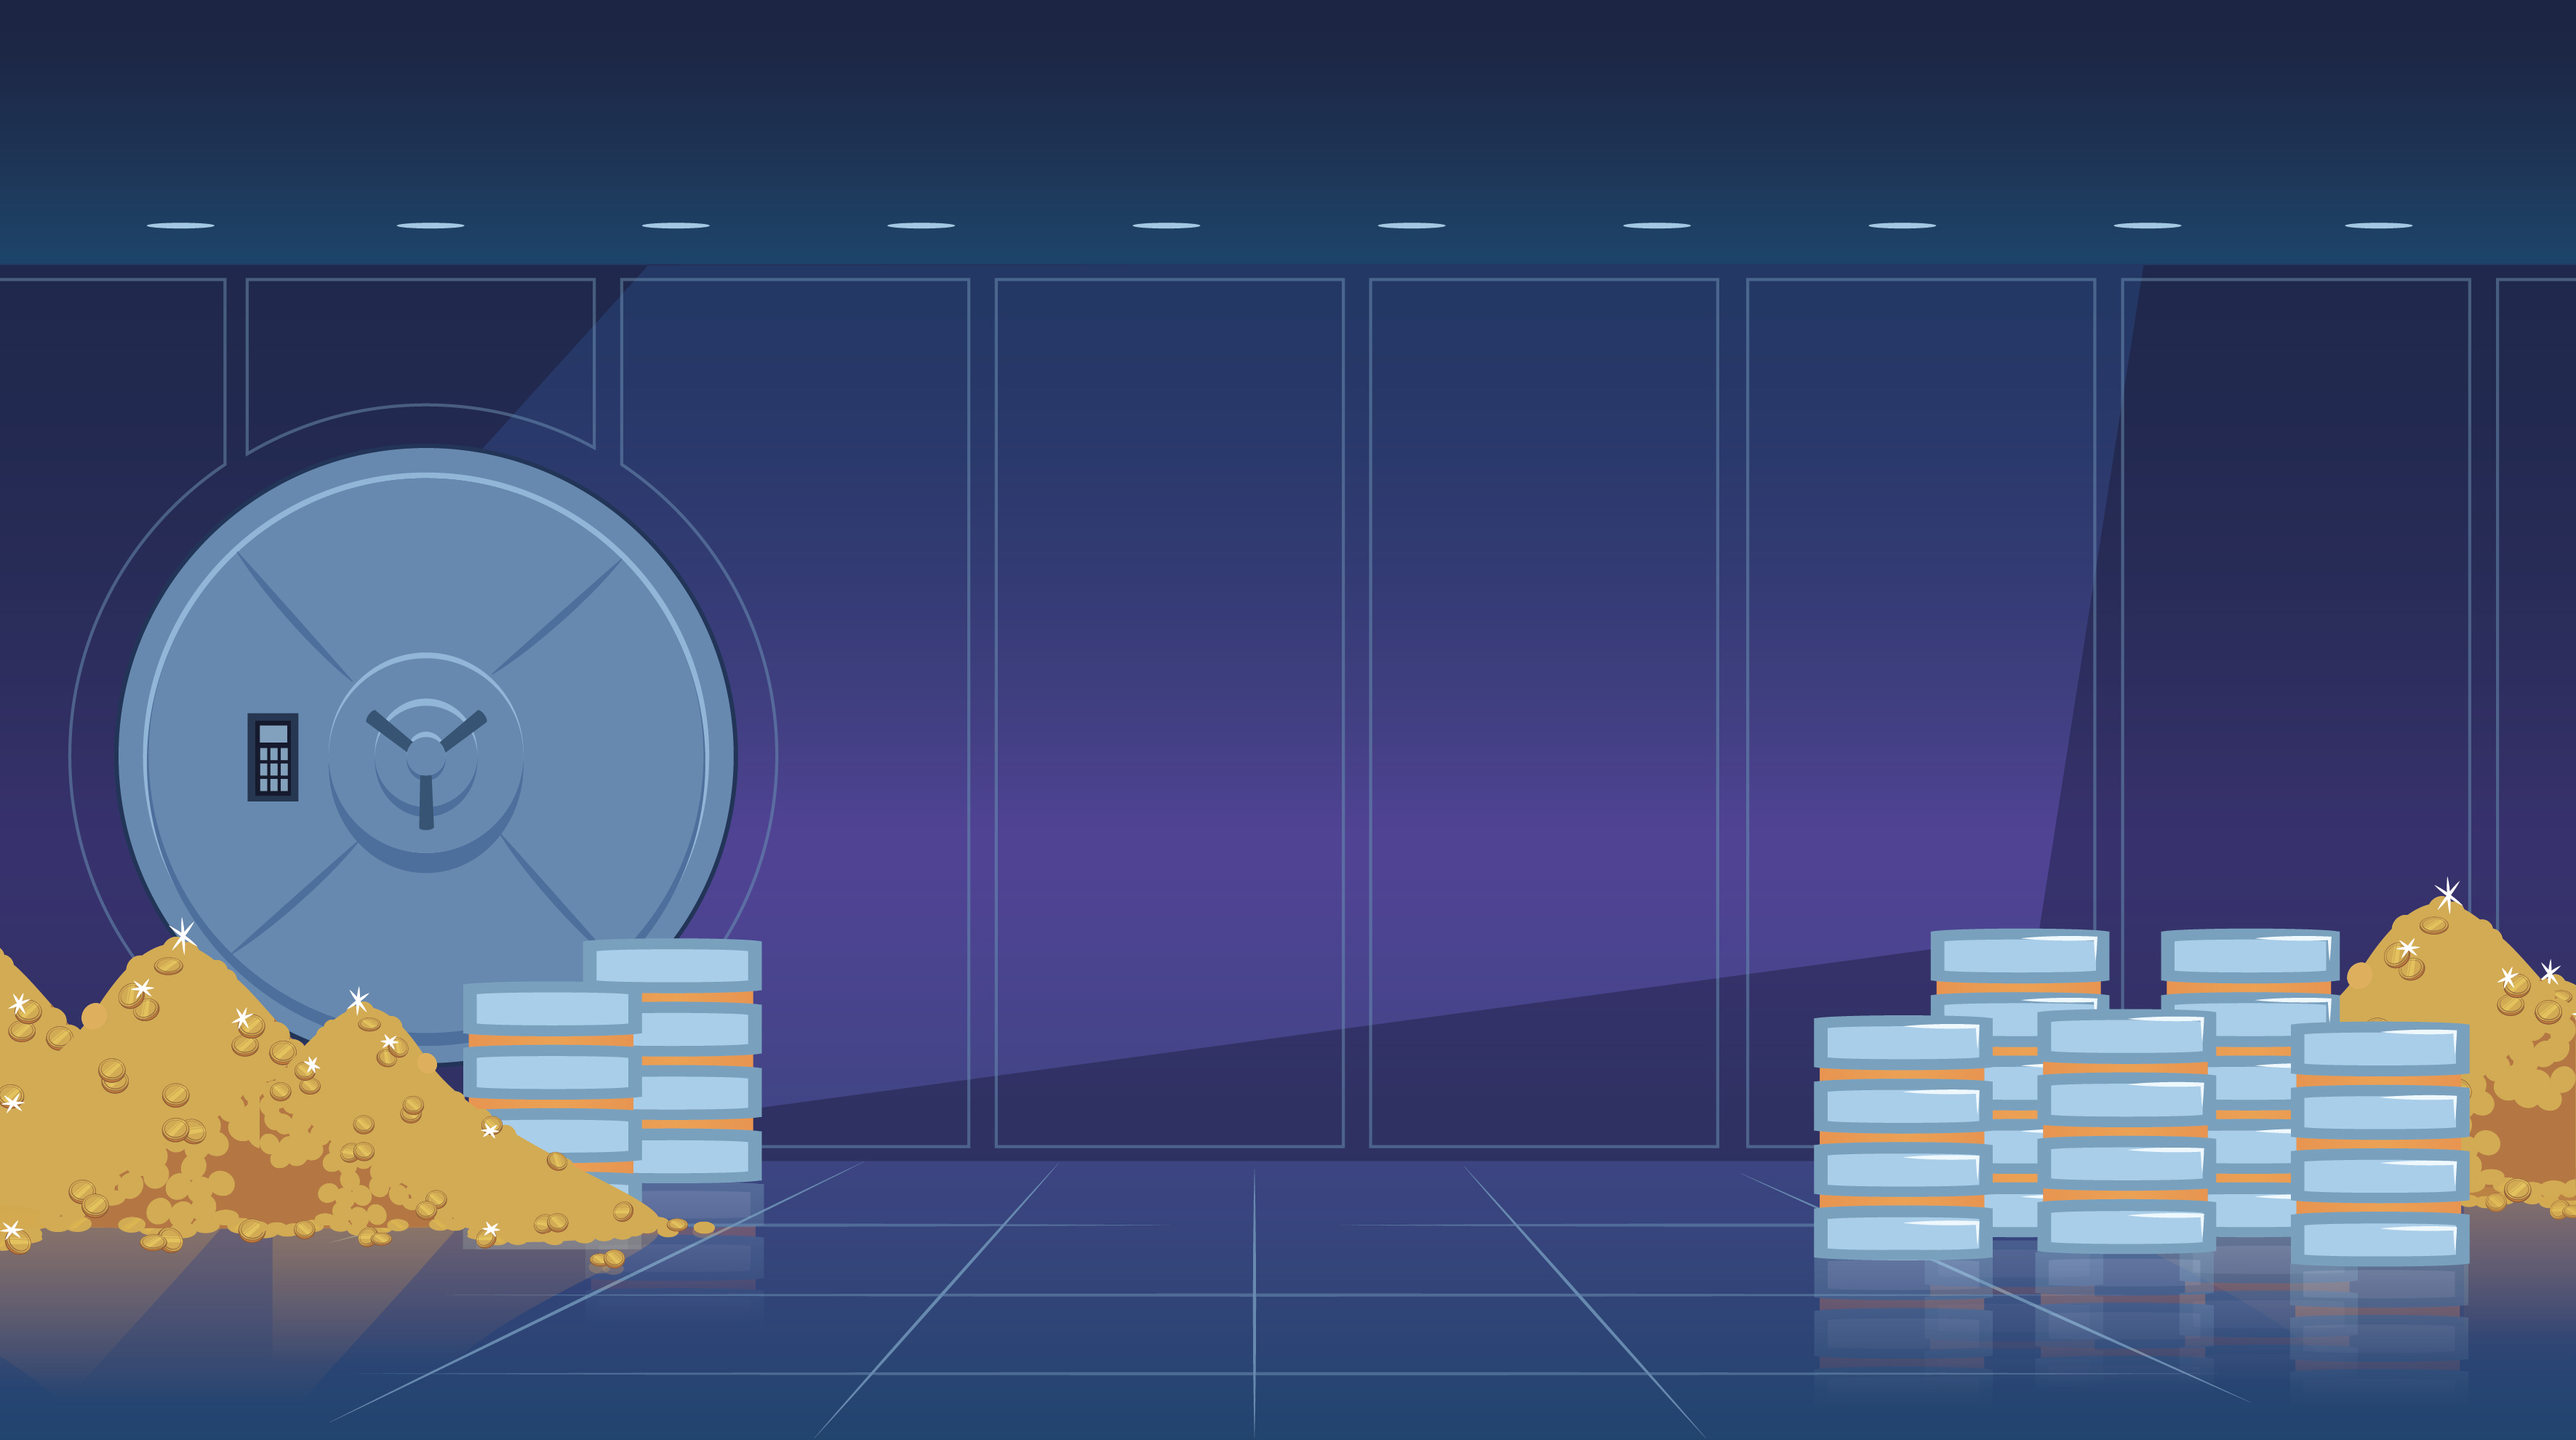
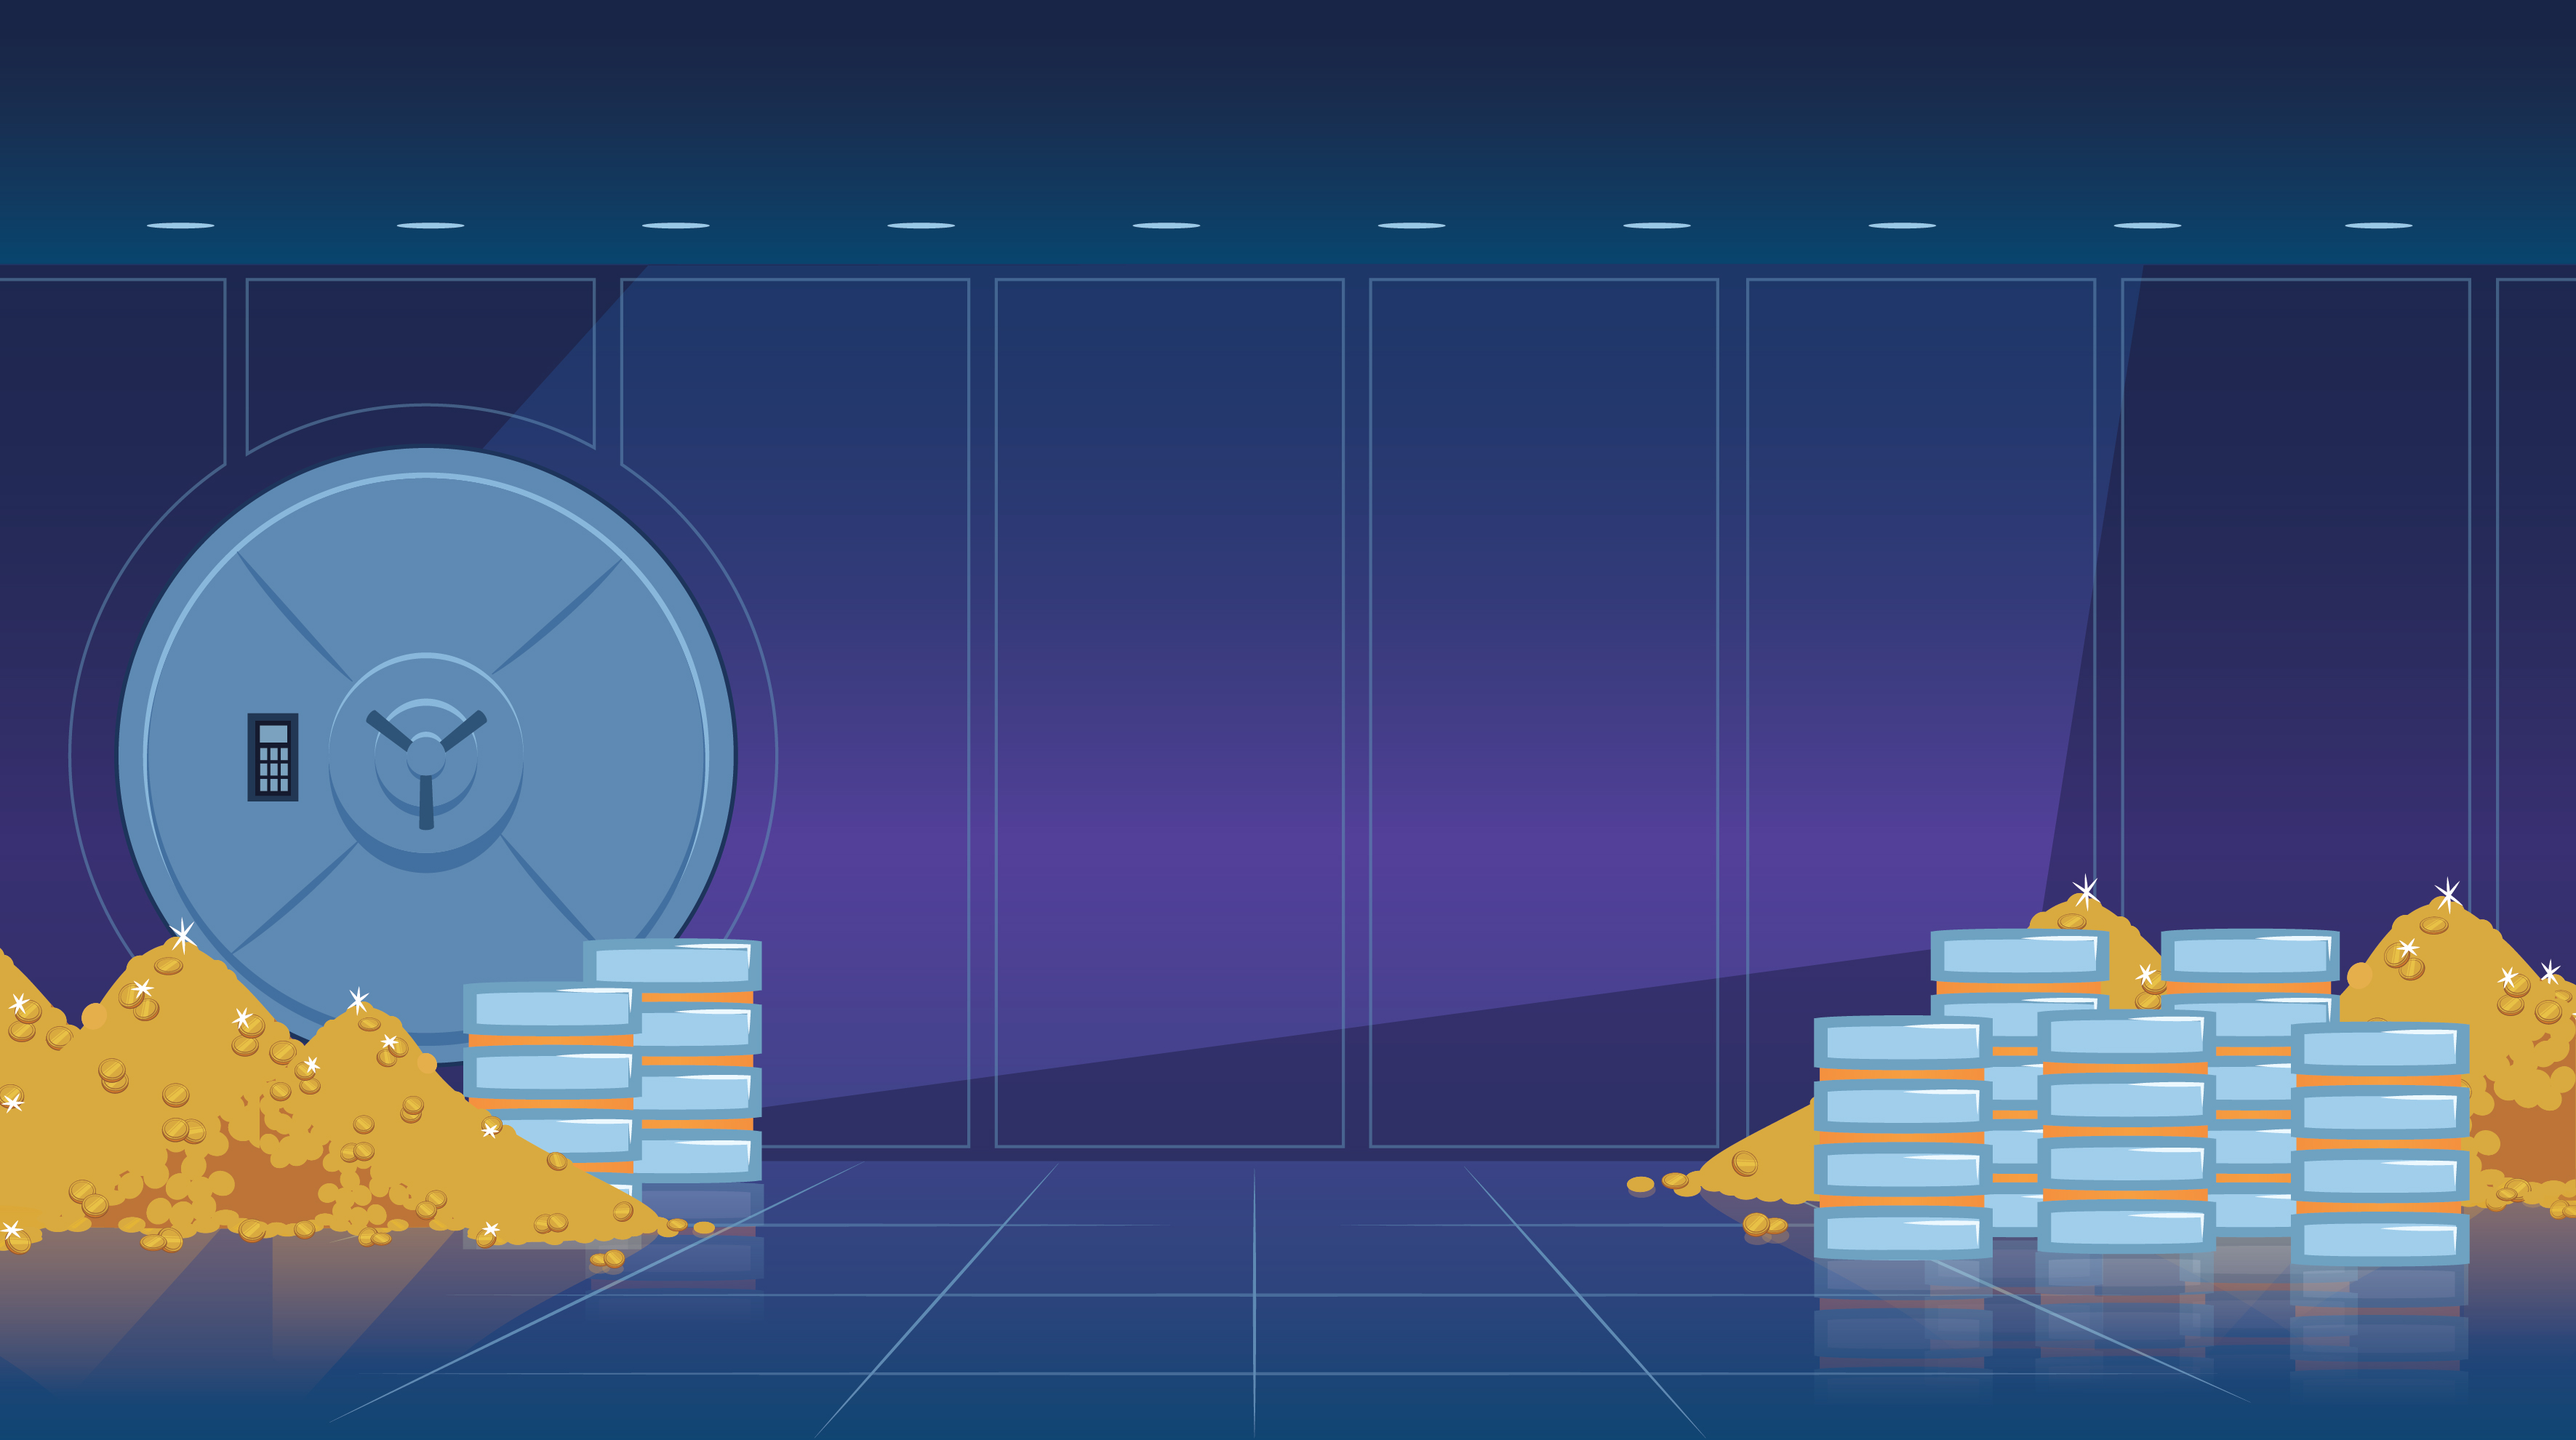
Adjusted landing page responsivity
added revised stake background

Changed region(s): [[0.6211, 0.7702, 0.7143, 0.8626], [0.7764, 0.6162, 0.8385, 0.7086], [0.8075, 0.8626, 0.9006, 0.8934]]

diff --git a/src/components/LandingPage.tsx b/src/components/LandingPage.tsx
@@ -1,27 +1,25 @@
 import { FaAngleDoubleRight } from "react-icons/fa";
 import { Link } from "react-router-dom";
-import { faTwitter, faDiscord, faMediumM, faGithub } from "@fortawesome/free-brands-svg-icons";
-import { FontAwesomeIcon } from "@fortawesome/react-fontawesome";
 import { FaBook } from "react-icons/fa";
 import SocialLinkIcons from "./SocialLinkIcons";
 
 export default function LandingPage() {
   return (
     <div className="w-full h-full absolute bg-dataXcity bg-cover bg-bottom">
-      <div className="w-full h-full flex flex-col items-center justify-center px-56 text-center">
-        <div className="text-8xl font-montserrat font-extrabold text-shadow-bold">
+      <div className="w-full h-full flex flex-col items-center justify-center px-8 lg:px-56 text-center">
+        <div className="text-4xl lg:text-6xl xl:text-8xl font-montserrat font-extrabold text-shadow-bold">
           <h1>
             <span className="mr-4">DATA IS THE NEW</span>
             <span className="line-through text-yellow mr-4">OIL</span>
             <span className="font-grit wiggle">MONEY</span>
           </h1>
         </div>
-        <p className="text-3xl text-shadow-light mt-12">
+        <p className="text-xl  xl:text-3xl text-shadow-light mt-4 xl:mt-12">
           DataX turns <span className="text-yellow">Data</span> data into{" "}
           <span className="font-grit underline">Programmable Money</span>{" "}
         </p>
-        <ul className="text-5xl py-4 inline-flex">
-          <SocialLinkIcons />
+        <ul className="text-5xl py-4 inline-flex mt-4">
+          <SocialLinkIcons effect="grow" margin="6"/>
         </ul>
         <ul className="inline-flex">
           <a href="https://docs.datax.fi" className="homeButton flex items-center py-2 ml-2 px-3">

diff --git a/src/components/SocialLinkIcons.tsx b/src/components/SocialLinkIcons.tsx
@@ -1,26 +1,29 @@
 import { FontAwesomeIcon } from "@fortawesome/react-fontawesome";
 import { faTwitter, faDiscord, faMediumM, faGithub } from "@fortawesome/free-brands-svg-icons";
-export default function SocialLinkIcons() {
+export default function SocialLinkIcons({effect, margin}:{effect: "grow" | "color", margin: string}) {
+
+  const style = `list-inline-item transition-all transform duration 200 hover:${effect === "grow" ?"scale-125" : "text-primary-500"}`
+
   return (
     <>
       {" "}
-      <li className="list-inline-item mr-2">
+      <li className={`${style} mr-${margin}`}>
         <a href="https://twitter.com/dataX_fi" target="_blank" rel="noreferrer">
           <FontAwesomeIcon icon={faTwitter} />
         </a>
       </li>
-      <li className="list-inline-item mr-2">
+      <li className={`${style} mr-${margin}`}>
         <a title="Discord" href="https://discord.com/invite/b974xHrUGV" target="_blank" rel="noreferrer">
           <FontAwesomeIcon icon={faDiscord} />
         </a>
       </li>
-      <li className="list-inline-item mr-2">
+      <li className={`${style} mr-${margin}`}>
         <a title="Medium" href="https://medium.com/datax-finance" target="_blank" rel="noreferrer">
           <FontAwesomeIcon icon={faMediumM} />
         </a>
       </li>
 
-      <li className="list-inline-item">
+      <li className={`${style}`}>
         <a title="GitHub" href="https://github.com/dataxfi/" target="_blank" rel="noreferrer">
           {" "}
           <FontAwesomeIcon icon={faGithub} />

diff --git a/src/components/MobileNavbar.tsx b/src/components/MobileNavbar.tsx
@@ -105,26 +105,26 @@ const MobileNavbar = ({
               }  pr-1 py-1 rounded-lg`}
             >
               {" "}
-              <p className="text-xs self-center rounded-l-lg  mr-2 ">
+              <p className="text-xs self-center rounded-l-lg">
                 {accountId ? `${network}` : null}
               </p>
               <Button
                 id={`${accountId ? "m-view-txs-btn" : "m-wallet-button"}`}
                 text={`${accountId ? `${truncateId()}` : "Connect wallet"}`}
                 onClick={() => handleModalOrConnect()}
-                classes={`hm-btn text-xs  ${
+                classes={`hm-btn text-xs ml-2 ${
                   accountId ? "px-1" : ""
                 }py-1 bg-black`}
               />
             </div>
           </div>
 
-          <MdClose
+          {/* <MdClose
             onClick={() => setWalletBtnVis(false)}
             color="#ccc"
             size="28"
             className="mt-1"
-          />
+          /> */}
         </div>
       </div>
     </header>

diff --git a/src/components/Footer.tsx b/src/components/Footer.tsx
@@ -19,10 +19,10 @@ export default function Footer() {
   }, [web3]);
 
   return (
-    <footer className="absolute bottom-0 pb-2 w-full mt-5">
+    <footer className="absolute bottom-0 pb-2 w-full mt-5 hidden lg:block">
       <div className="flex flex-col text-center">
         <ul className="inline-flex text-2xl justify-center">
-          <SocialLinkIcons />
+          <SocialLinkIcons effect="color" margin="2" />
           <li className="list-inline-item ml-2 self-center">
             <a title="DataX Docs" href="https://docs.datax.fi" target="_blank" rel="noreferrer">
               <FaBook size="26px" />
